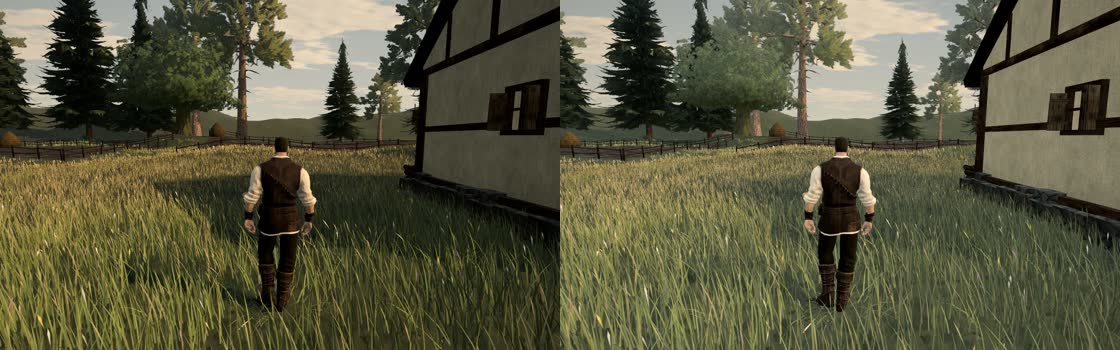
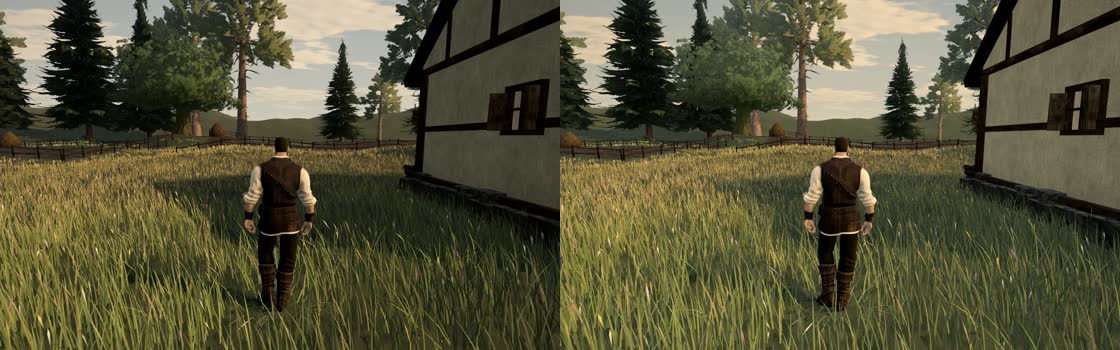
Rebalance A137: warm sun back, gentler fill, cheaper soft-shadow early out
Sun 0.88 (was 0.66), hemisphere fill lift 3.5 (was 5.5), IBL day lift
0.12 (was 0.3): the first pass greyed the frame and made mottled ground
under near grass read as blue/orange smears. Canopy sky occlusion 0.74
-> 0.86; grade a touch warmer and 8% more saturated by day. Soft shadow
early-outs for fully shaded as well as lit pixels, with a centre tap so
thin shadows are kept.

diff --git a/src/presentation/softShadows.ts b/src/presentation/softShadows.ts
@@ -6,9 +6,10 @@ import * as THREE from 'three';
  * Three's PCF shadow reads a comparison sampler, so the depth of a blocker can't be read. It can still be bracketed: a
  * comparison made a few metres nearer the light than the receiver says whether the blocker stands that far above it.
  * Five rotated taps across the widest penumbra find whether the pixel is near an edge at all; only there do two more
- * brackets say how far the blockers are, and an eight-tap disc of that size gives the edge. A fence post or a foot keeps
+ * brackets say how far the blockers are, and an eight-tap disc of that size gives the edge. Ground with no edge in reach,
+ * lit or shaded, pays six taps (Three's PCF took five). A fence post or a foot keeps
  * a crisp contact shadow, while a house's shadow fifteen metres from its eaves gets a soft edge, as the sun's disc and
- * the sky around it give a real one. Fully lit and fully shaded ground pays five taps, as Three's own PCF did.
+ * the sky around it give a real one.
  *
  * It applies to a shadow whose `radius` is negative (the sun's); other shadows keep Three's PCF.
  */
@@ -67,9 +68,12 @@ const SOFT_PCF = /* glsl */ `
 						lit += tvShadowTap( shadowMap, uv, shadowCoord.z );
 					}
 
-					if ( lit > 4.99 ) {
+					// No edge within the widest penumbra: fully lit or fully shaded, five taps as Three's own PCF.
+					// The pixel's own tap too, so a thin shadow (a rail, a blade) between the ring's taps is never lost.
+					float centre = tvShadowTap( shadowMap, shadowCoord.xy, shadowCoord.z );
+					if ( ( lit > 4.99 && centre > 0.99 ) || ( lit < 0.01 && centre < 0.01 ) ) {
 
-						shadow = 1.0;
+						shadow = centre;
 
 					} else {
 

diff --git a/src/presentation/grade.ts b/src/presentation/grade.ts
@@ -128,7 +128,8 @@ void main() {
   // Cool shadows, warm lights.
   vec3 shadowTint = vec3(0.94, 0.99, 1.06);
   // Warm sunlight remains selective. Moonlit highlights retain their cooler identity through the night cycle.
-  vec3 lightTint = mix(vec3(1.06, 1.0, 0.9), vec3(0.97, 1.0, 1.04), clamp(uNight, 0.0, 1.0));
+  // A137: a touch warmer by day, now that the shade carries more blue sky.
+  vec3 lightTint = mix(vec3(1.08, 1.0, 0.87), vec3(0.97, 1.0, 1.04), clamp(uNight, 0.0, 1.0));
   c *= mix(shadowTint, lightTint, smoothstep(0.12, 0.7, l));
   // Earthier greens and sky (A67): grass and leaves lean to olive and lose some chroma, the sky's blue is muted.
   // Reds, golds and browns keep theirs, so the warm/cool contrast survives (this is not a blanket desaturation).
@@ -142,7 +143,8 @@ void main() {
   c = mix(c, vec3(l) + (c - vec3(l)) * 0.78, skyish);
   // Saturation, then the contrast curve.
   l = dot(c, vec3(0.2126, 0.7152, 0.0722));
-  c = mix(vec3(l), c, uSaturation);
+  // A137: a little more colour by day keeps sunlit grass warm against the lifted shade.
+  c = mix(vec3(l), c, uSaturation * mix(1.08, 1.0, clamp(uNight, 0.0, 1.0)));
   // Daylight can carry the stronger S-curve. Fade its black subtraction at night so
   // moonlit cloth, nearby roots and the road retain their painted dark values.
   float sceneContrast = mix(uContrast, 1.0, clamp(uNight, 0.0, 1.0));

diff --git a/src/presentation/terrainMaterial.ts b/src/presentation/terrainMaterial.ts
@@ -246,7 +246,7 @@ export function createTerrainMaterial(tex: TerrainTextures): THREE.MeshStandardM
       .replace('#include <roughnessmap_fragment>', '#include <roughnessmap_fragment>\nroughnessFactor = tRough;')
       // Accepted geometric crowns screen some diffuse sky light. Direct sunlight and real shadow maps retain
       // their own authority; this is a soft sky-occlusion proxy, not an invented physical canopy shadow.
-      .replace('#include <aomap_fragment>', '#include <aomap_fragment>\nreflectedLight.indirectDiffuse *= mix(0.8, 1.0, smoothstep(0.2, 0.8, tHeight)) * mix(1.0, 0.74, clamp(vCanopy, 0.0, 1.0));')
+      .replace('#include <aomap_fragment>', '#include <aomap_fragment>\nreflectedLight.indirectDiffuse *= mix(0.8, 1.0, smoothstep(0.2, 0.8, tHeight)) * mix(1.0, 0.86, clamp(vCanopy, 0.0, 1.0));')
       .replace('#include <normal_fragment_maps>', `#include <normal_fragment_maps>\n${FRAG_NORMAL}`);
   };
   mat.customProgramCacheKey = () => 'tervain-terrain-v8-sward-green';

diff --git a/tests/presentation/skyAtmosphere.test.ts b/tests/presentation/skyAtmosphere.test.ts
@@ -49,8 +49,8 @@ describe('continuous coastal atmosphere', () => {
   it('retains a cool diffuse reading floor throughout night with the normal environment active', () => {
     SKY.ibl.value = 1;
     sky.update(12, focus, 120, true);
-    // A137: by day the sun gives a third of its light to the sky's fill, so shade is not near black.
-    expect(sky.sun.intensity).toBeGreaterThan(1.6);
+    // A137: by day the sun gives an eighth of its light to the sky’s fill, so shade is not near black.
+    expect(sky.sun.intensity).toBeGreaterThan(2.2);
     // This measures available linear diffuse illumination, not final pixels:
     // the ordinary native forest review still decides route/hero readability.
     for (let sample = 0; sample <= 90; sample++) {

diff --git a/src/presentation/sky.ts b/src/presentation/sky.ts
@@ -240,10 +240,10 @@ const SHADOW_DIR_STEP = 0.003;
  * keeps about two fifths of the sunlit ground's brightness, lit blue by the sky, instead of falling near black. The sun
  * gives back a little so the sunlit side keeps its exposure and the shadow keeps its shape.
  */
-export const DAY_FILL_LIFT = 5.5;
-export const DAY_SUN_SCALE = 0.66;
+export const DAY_FILL_LIFT = 3.5;
+export const DAY_SUN_SCALE = 0.88;
 /** How much of the sun a shadow still holds when the sun is low (long shadows lit by a wide bright sky), A137. */
-export const LOW_SUN_SHADOW = 0.82;
+export const LOW_SUN_SHADOW = 0.78;
 
 const SNAP_ACROSS = new THREE.Vector3(), SNAP_ALONG = new THREE.Vector3();
 

diff --git a/src/presentation/environment.ts b/src/presentation/environment.ts
@@ -13,7 +13,7 @@ import { smoothstep } from '../world/noise';
  * a crown keeps a believable blue sky fill instead of falling near black. Surfaces in the game are matte, so the
  * reflections this also lifts are faint.
  */
-export const ENV_DAY_LIFT = 0.3;
+export const ENV_DAY_LIFT = 0.12;
 
 export interface EnvironmentHandle {
   update(dt: number, f: FrameContext): void;

diff --git a/docs/engineering/a137-shade-fill.md b/docs/engineering/a137-shade-fill.md
@@ -6,9 +6,11 @@ Playtest 6 reported a hard-edged bright square of light and shadow following the
 
 | Where | What |
 | --- | --- |
-| `softShadows.ts` (new) | A cheap PCSS for the sun built from comparison samples only. Three's PCF reads a comparison sampler, so a blocker's depth cannot be read directly. It can be bracketed instead: a comparison made 2 m or 7 m nearer the light than the receiver says whether the blocker stands at least that far above it. Five rotated taps across the widest penumbra (0.42 m) tell whether the pixel is near an edge at all. Fully lit pixels stop there, at the same five taps Three's PCF uses. Near an edge, the two brackets estimate the distance to the caster, and an eight-tap disc of 2.8 cm per metre of that distance (at least 3.5 cm) gives the edge. Contact shadows from feet, fence posts and roots stay crisp, and a house shadow 15 m from its eaves gets a soft edge. The patch applies only to a shadow whose `radius` is negative (the sun's), so any other shadow keeps Three's PCF. |
-| `sky.ts` | The sun uses it (`shadow.radius = SOFT_SUN_SHADOW`). By day the hemisphere fill is 6.5× its former value (`DAY_FILL_LIFT`) and the sun is at 0.66 (`DAY_SUN_SCALE`). Both fade out with `day`, so dawn, dusk and night are unchanged. When the sun is low, its shadow keeps 0.82 of the sun's light out (`LOW_SUN_SHADOW`) instead of all of it: long evening shadows sit under a wide, bright sky. `SKY.ambient` (water) is unchanged. |
-| `environment.ts` | The generated sky's image-based light is 1.3× by day (`ENV_DAY_LIFT`). Larger lifts turned crowns and water milky, so most of the fill comes from the hemisphere: blue from above, earthy from below. |
+| `softShadows.ts` (new) | A cheap PCSS for the sun built from comparison samples only. Three's PCF reads a comparison sampler, so a blocker's depth cannot be read directly. It can be bracketed instead: a comparison made 2 m or 7 m nearer the light than the receiver says whether the blocker stands at least that far above it. Five rotated taps across the widest penumbra (0.42 m), plus the pixel's own tap, tell whether the pixel is near an edge at all. Pixels that are fully lit or fully shaded stop there, at six taps where Three's PCF uses five. The pixel's own tap keeps a thin shadow, such as a rail or a blade, from being lost between the ring's taps. Near an edge, the two brackets estimate the distance to the caster, and an eight-tap disc of 2.8 cm per metre of that distance (at least 3.5 cm) gives the edge. Contact shadows from feet, fence posts and roots stay crisp, and a house shadow 15 m from its eaves gets a soft edge. The patch applies only to a shadow whose `radius` is negative (the sun's), so any other shadow keeps Three's PCF. |
+| `sky.ts` | The sun uses it (`shadow.radius = SOFT_SUN_SHADOW`). By day the hemisphere fill is 4.5× its former value (`DAY_FILL_LIFT` 3.5) and the sun is at 0.88 (`DAY_SUN_SCALE`). Both fade out with `day`, so dawn, dusk and night are unchanged. When the sun is low, its shadow blocks 0.78 of the sun's light (`LOW_SUN_SHADOW`) instead of all of it: long evening shadows sit under a wide, bright sky. `SKY.ambient` (water) is unchanged. |
+| `environment.ts` | The generated sky's image-based light is 1.12× by day (`ENV_DAY_LIFT`). A first pass lifted it further and greyed the whole frame. It also made the mottled ground texture under near grass read as blue and orange smears, which was not a shadow artefact: the same frame with Three's hard PCF looked the same. |
+| `terrainMaterial.ts` | Under a crown, ground keeps 0.86 of the sky's diffuse light (it was 0.74), so the stream bank under the mill's oak is not a pit. |
+| `grade.ts` | By day the sunlit tint is a touch warmer and saturation is 8% higher, so sunlit grass stays warm and golden against the bluer shade. Night is unchanged. |
 
 The earlier experiment of a uniform `shadow.radius` of 1.5 to 2.5 washed out thin casters and showed a grid. Here the penumbra grows only where the caster is far, so thin casters near the ground stay sharp.
 
@@ -18,14 +20,14 @@ These were measured on a GPU at 1440×900. The figures are mean linear luminance
 
 | Spot | Before | After |
 | --- | --- | --- |
-| Meadow by the houses, 16:33, house shadow beside the hero | 0.13 (0.36) | 0.38 (0.63) |
-| Stream under the oak by the mill, 15:00 | 0.11 (0.27) | 0.27 (0.51) |
-| Same, 11:00 | 0.22 (0.43) | 0.41 (0.64) |
-| Giant oak by the haystacks, 15:00, shaded trunk luminance | 0.0044 | 0.0175 (×4) |
+| Meadow by the houses, 16:33, house shadow beside the hero | 0.13 (0.36) | 0.26 (0.52) |
+| Stream under the oak by the mill, 15:00 | 0.11 (0.27) | 0.21 (0.43) |
+| Same, 11:00 | 0.22 (0.43) | 0.34 (0.58) |
+| Giant oak by the haystacks, 15:00, shaded trunk luminance | 0.0044 | 0.0109 (×2.5) |
 
 Under a crown the ground stays darker than in an open shadow, because the terrain's canopy sky-occlusion still applies. That is intended.
 
-Bench (High, 1440×900, two laps per run, two runs each): GPU frame median was 6.96 to 10.0 ms before and 7.6 to 8.5 ms after. The machine's run-to-run spread (about 1.5 ms) is larger than the change. Sunlit and fully shaded ground pays the same five taps as before, and only edge pixels pay 18 more.
+Bench (High, 1440×900, two laps per run): GPU frame median was 7.2 to 10.9 ms before, across sessions, and 7.6 to 7.8 ms after. The machine's run-to-run spread is larger than the change. Edge-free ground pays one tap more than before, and only edge pixels pay the brackets and the disc.
 
 ![Meadow by the houses at 16:33, before and after](a137-shade-fill/meadow-before-after.jpg)
 
@@ -35,4 +37,4 @@ Bench (High, 1440×900, two laps per run, two runs each): GPU frame median was 6
 
 ## Tuning
 
-Raise `DAY_FILL_LIFT` for lighter shade. Lower `DAY_SUN_SCALE` for less glare on the sunlit side. Keep `ENV_DAY_LIFT` small, because it also lifts sunlit surfaces and greys crowns. The penumbra is set by `PENUMBRA_PER_METRE` and `PENUMBRA_MAX` in `softShadows.ts`.
+Raise `DAY_FILL_LIFT` for lighter shade. Lower `DAY_SUN_SCALE` for less glare on the sunlit side. Keep `ENV_DAY_LIFT` small, because it lifts sunlit surfaces too and greys crowns and ground. The penumbra is set by `PENUMBRA_PER_METRE` and `PENUMBRA_MAX` in `softShadows.ts`.
